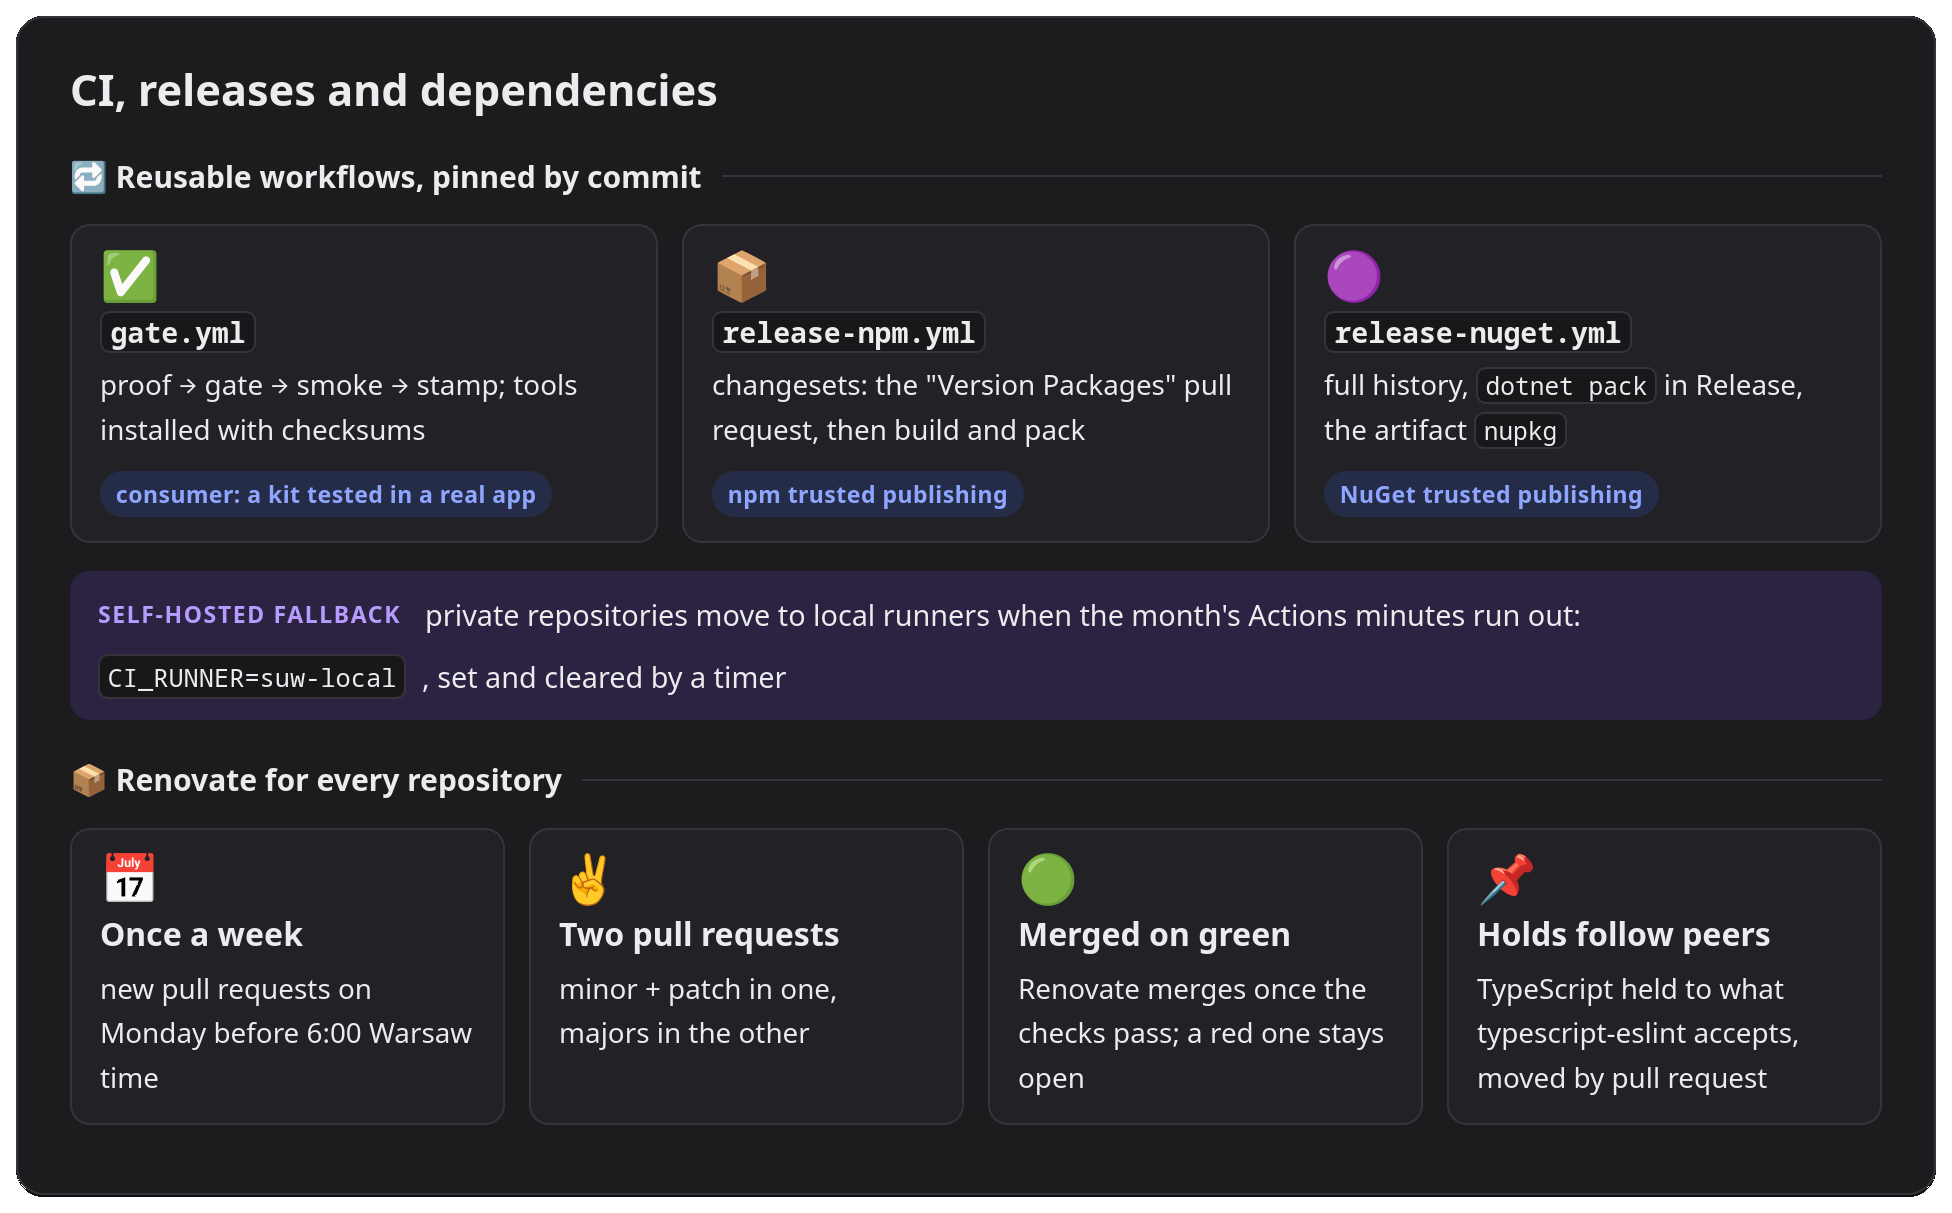
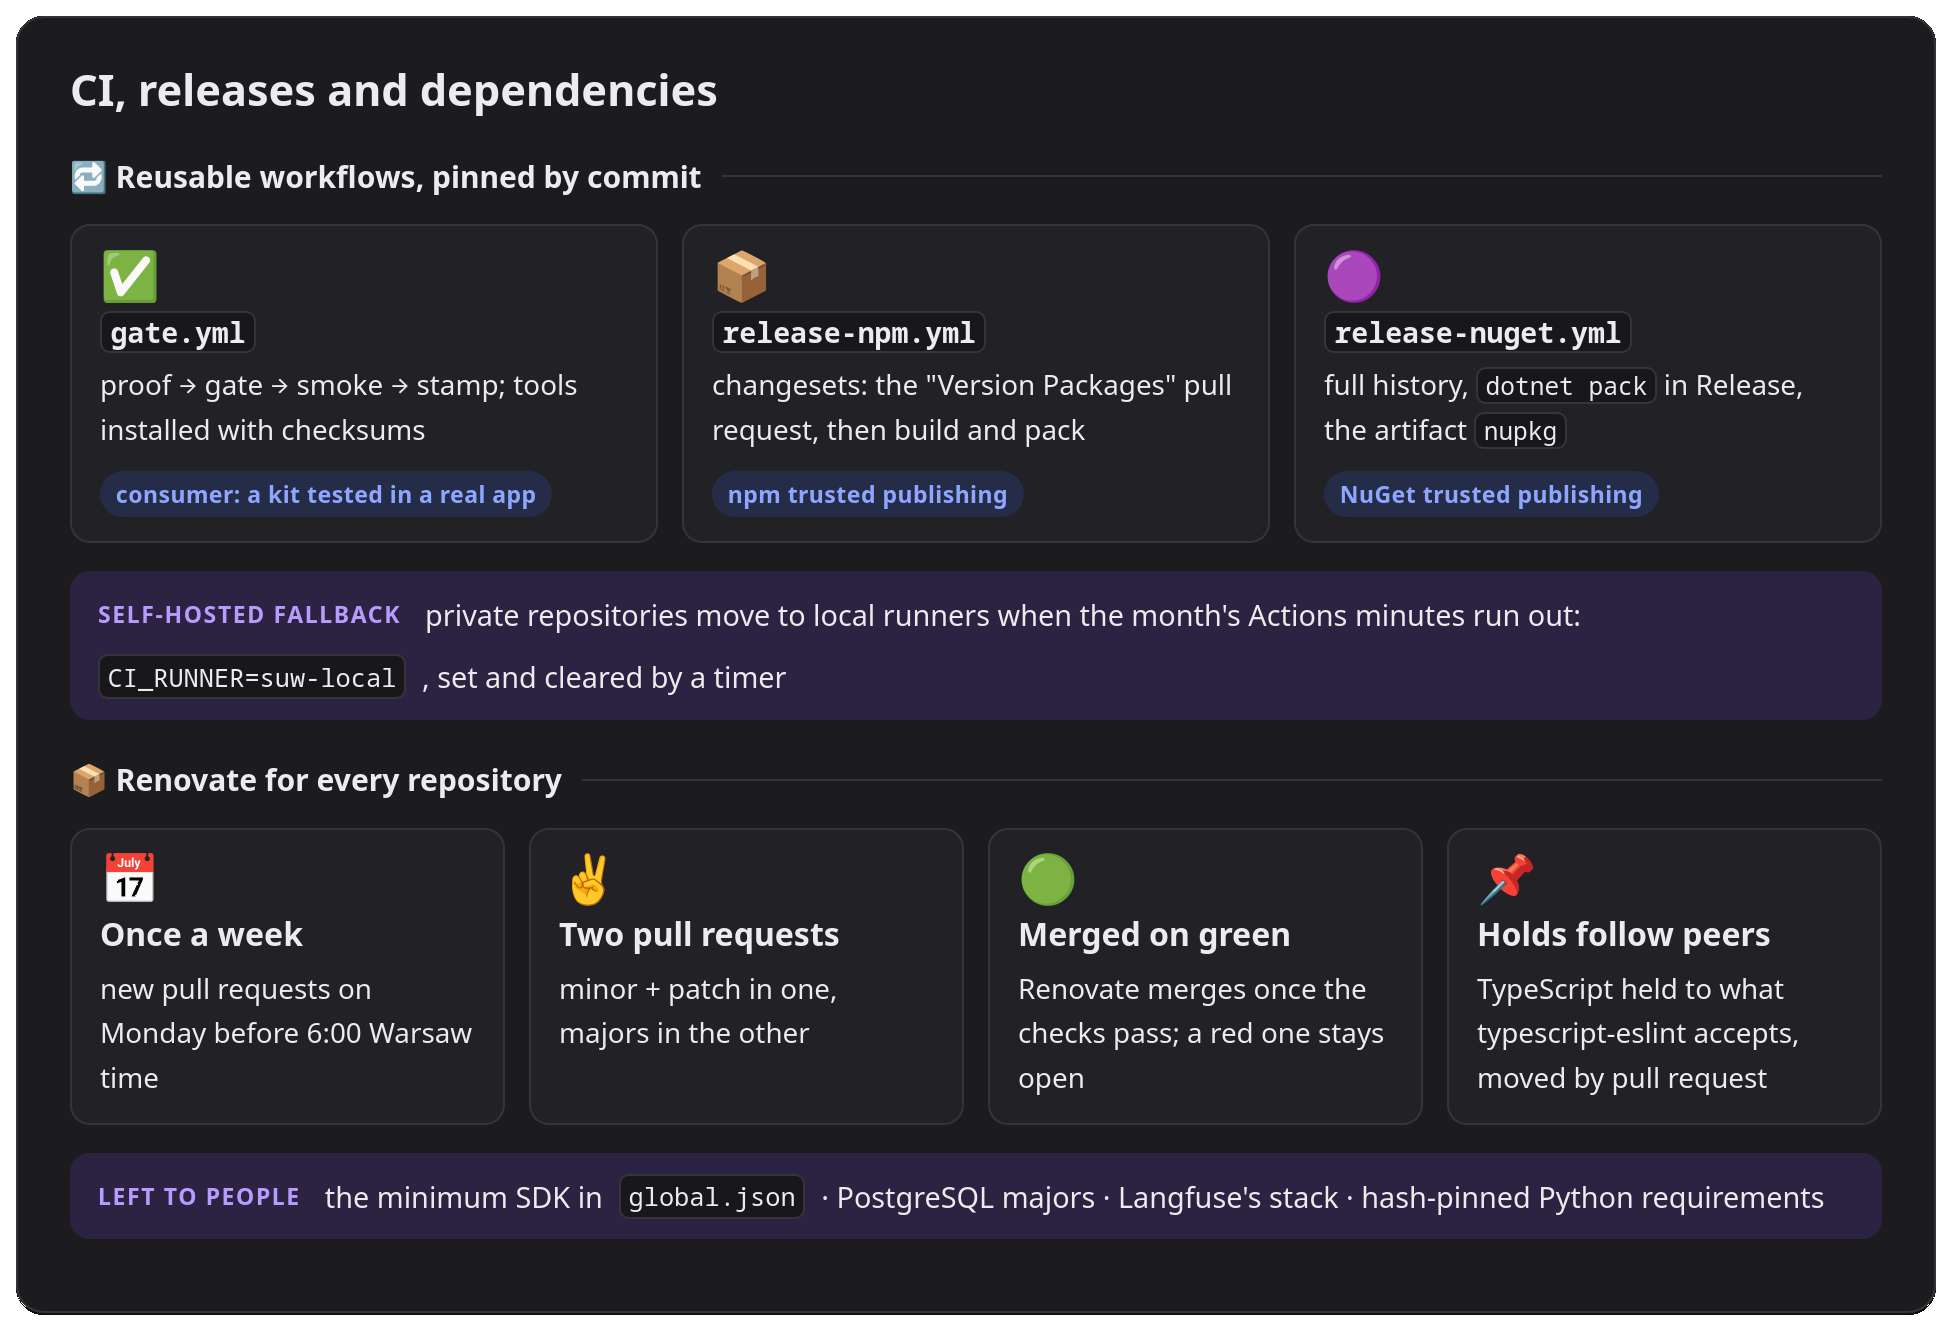
README: what Renovate leaves to people

Changed region(s): [[0.0312, 0.122, 0.9688, 0.9456], [0.0, 0.9761, 1.0, 1.0], [0.0312, 0.061, 0.375, 0.0915]]

diff --git a/docs/visual/board/readme.html b/docs/visual/board/readme.html
@@ -496,8 +496,8 @@ pre.out { font: 12px/1.5 var(--mono); background: var(--code-bg); border: 1px so
     <div><span class="ico">💨</span><h4><code>smoke</code></h4><p class="when">read-only requests</p><p><code>--ci</code> builds and starts its own stack on free ports</p></div>
     <div><span class="ico">🌿</span><h4><code>checkout-env</code></h4><p class="when">eval in a worktree</p><p>own test databases and e2e ports per linked worktree</p></div>
     <div><span class="ico">👯</span><h4><code>sibling</code></h4><p class="when">image · up · rebuild · down · status</p><p>a sibling repository's images, rebuilt when its checkout moved on</p></div>
-    <div><span class="ico">🧬</span><h4><code>api-types</code></h4><p class="when">after an API change</p><p>regenerates the API contract and the web app's types, as the api-contract step does</p><div class="foot"><span class="tag ok">new</span></div></div>
-    <div><span class="ico">🐢</span><h4><code>slow-tests</code></h4><p class="when">-n count · a report</p><p>which .NET tests take the longest</p><div class="foot"><span class="tag ok">new</span></div></div>
+    <div><span class="ico">🧬</span><h4><code>api-types</code></h4><p class="when">after an API change</p><p>regenerates the API contract and the web app's types, as the api-contract step does</p></div>
+    <div><span class="ico">🐢</span><h4><code>slow-tests</code></h4><p class="when">-n count · a report</p><p>which .NET tests take the longest</p></div>
     <div><span class="ico">🧾</span><h4><code>dev:</code> in suwgate.yml</h4><p class="when">only <code>name</code> is required</p><p><code>portOffset</code> keeps repositories on one machine apart</p></div>
   </div>
 </section>
@@ -518,6 +518,7 @@ pre.out { font: 12px/1.5 var(--mono); background: var(--code-bg); border: 1px so
     <div><span class="ico">🟢</span><h4>Merged on green</h4><p>Renovate merges once the checks pass; a red one stays open</p></div>
     <div><span class="ico">📌</span><h4>Holds follow peers</h4><p>TypeScript held to what typescript-eslint accepts, moved by pull request</p></div>
   </div>
+  <div class="strip"><span class="lbl">Left to people</span> the minimum SDK in <code>global.json</code> · PostgreSQL majors · Langfuse's stack · hash-pinned Python requirements</div>
 </section>
 
 <section id="choose">

diff --git a/README.md b/README.md
@@ -103,7 +103,7 @@ Every subcommand answers `--help`. The `dev` section and what each command does:
 
 <picture>
   <source media="(prefers-color-scheme: dark)" srcset="docs/visual/board/img/readme/ci-dark.png">
-  <img alt="CI, releases and dependencies. Reusable workflows, pinned by commit: gate.yml (proof, gate, smoke, stamp; tools installed with checksums; consumer: a kit tested in a real app); release-npm.yml (changesets: the Version Packages pull request, then build and pack; npm trusted publishing); release-nuget.yml (full history, dotnet pack in Release, the artifact nupkg; NuGet trusted publishing). Self-hosted fallback: private repositories move to local runners when the month's Actions minutes run out: CI_RUNNER=suw-local, set and cleared by a timer. Renovate for every repository: once a week (new pull requests on Monday before 6:00 Warsaw time); two pull requests (minor and patch in one, majors in the other); merged on green (Renovate merges once the checks pass, a red one stays open); holds follow peers (TypeScript held to what typescript-eslint accepts, moved by pull request)." src="docs/visual/board/img/readme/ci-light.png" width="100%">
+  <img alt="CI, releases and dependencies. Reusable workflows, pinned by commit: gate.yml (proof, gate, smoke, stamp; tools installed with checksums; consumer: a kit tested in a real app); release-npm.yml (changesets: the Version Packages pull request, then build and pack; npm trusted publishing); release-nuget.yml (full history, dotnet pack in Release, the artifact nupkg; NuGet trusted publishing). Self-hosted fallback: private repositories move to local runners when the month's Actions minutes run out: CI_RUNNER=suw-local, set and cleared by a timer. Renovate for every repository: once a week (new pull requests on Monday before 6:00 Warsaw time); two pull requests (minor and patch in one, majors in the other); merged on green (Renovate merges once the checks pass, a red one stays open); holds follow peers (TypeScript held to what typescript-eslint accepts, moved by pull request). Left to people: the minimum SDK in global.json, PostgreSQL majors, Langfuse's stack, hash-pinned Python requirements." src="docs/visual/board/img/readme/ci-light.png" width="100%">
 </picture>
 
 A repository's whole `ci.yml` can be one job:
